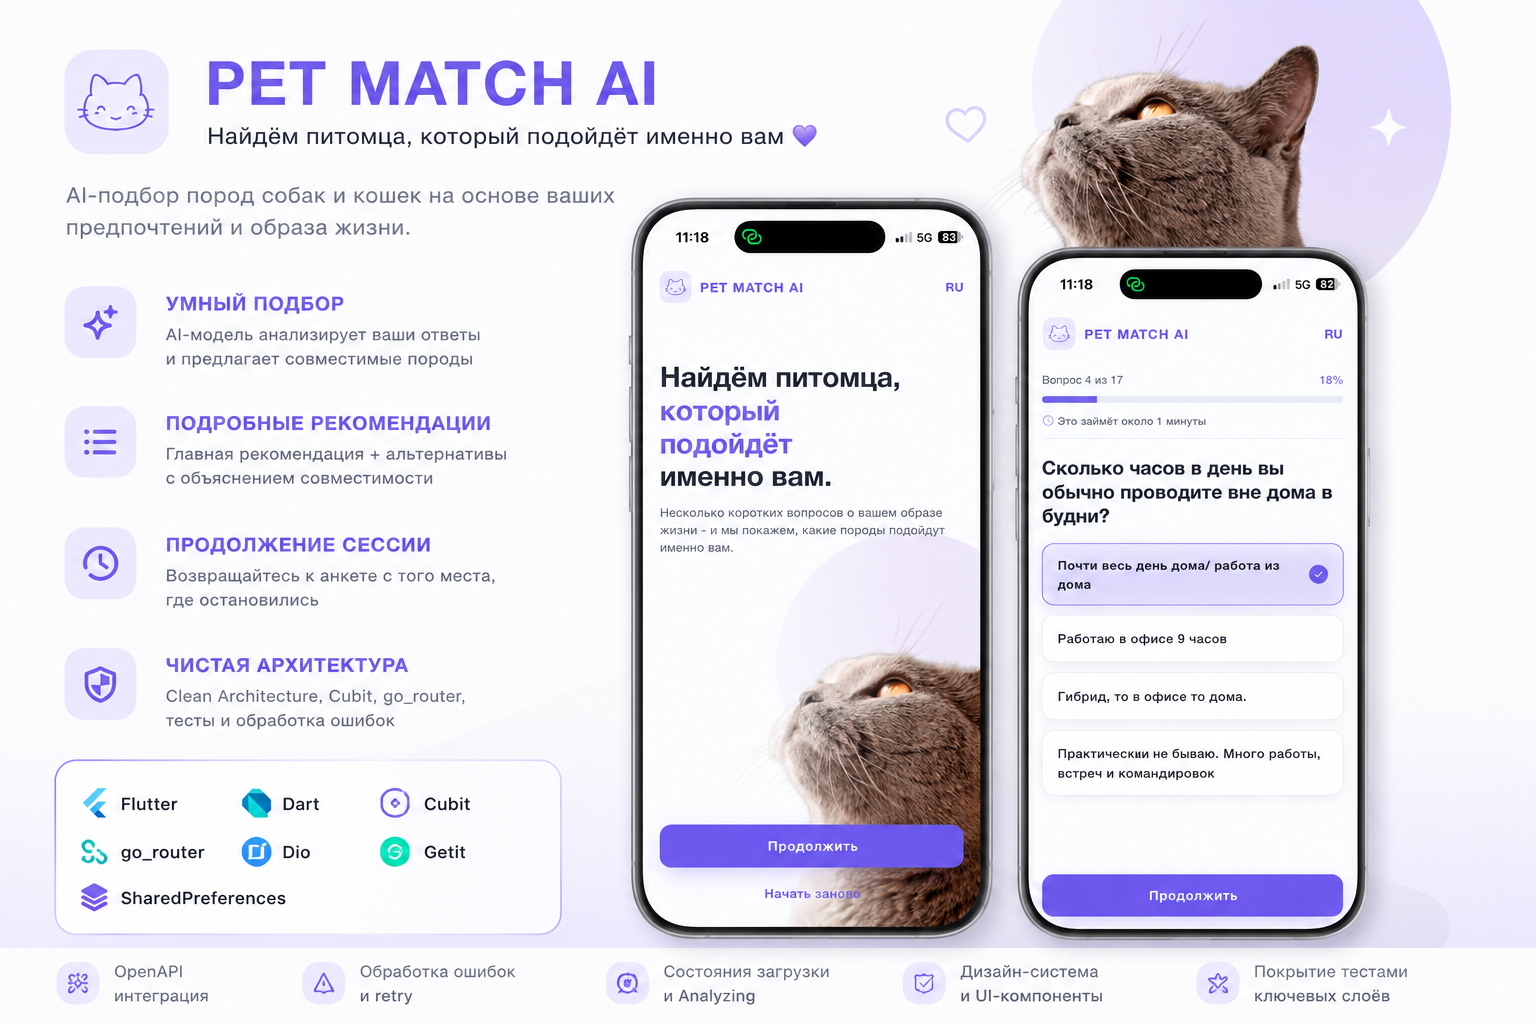
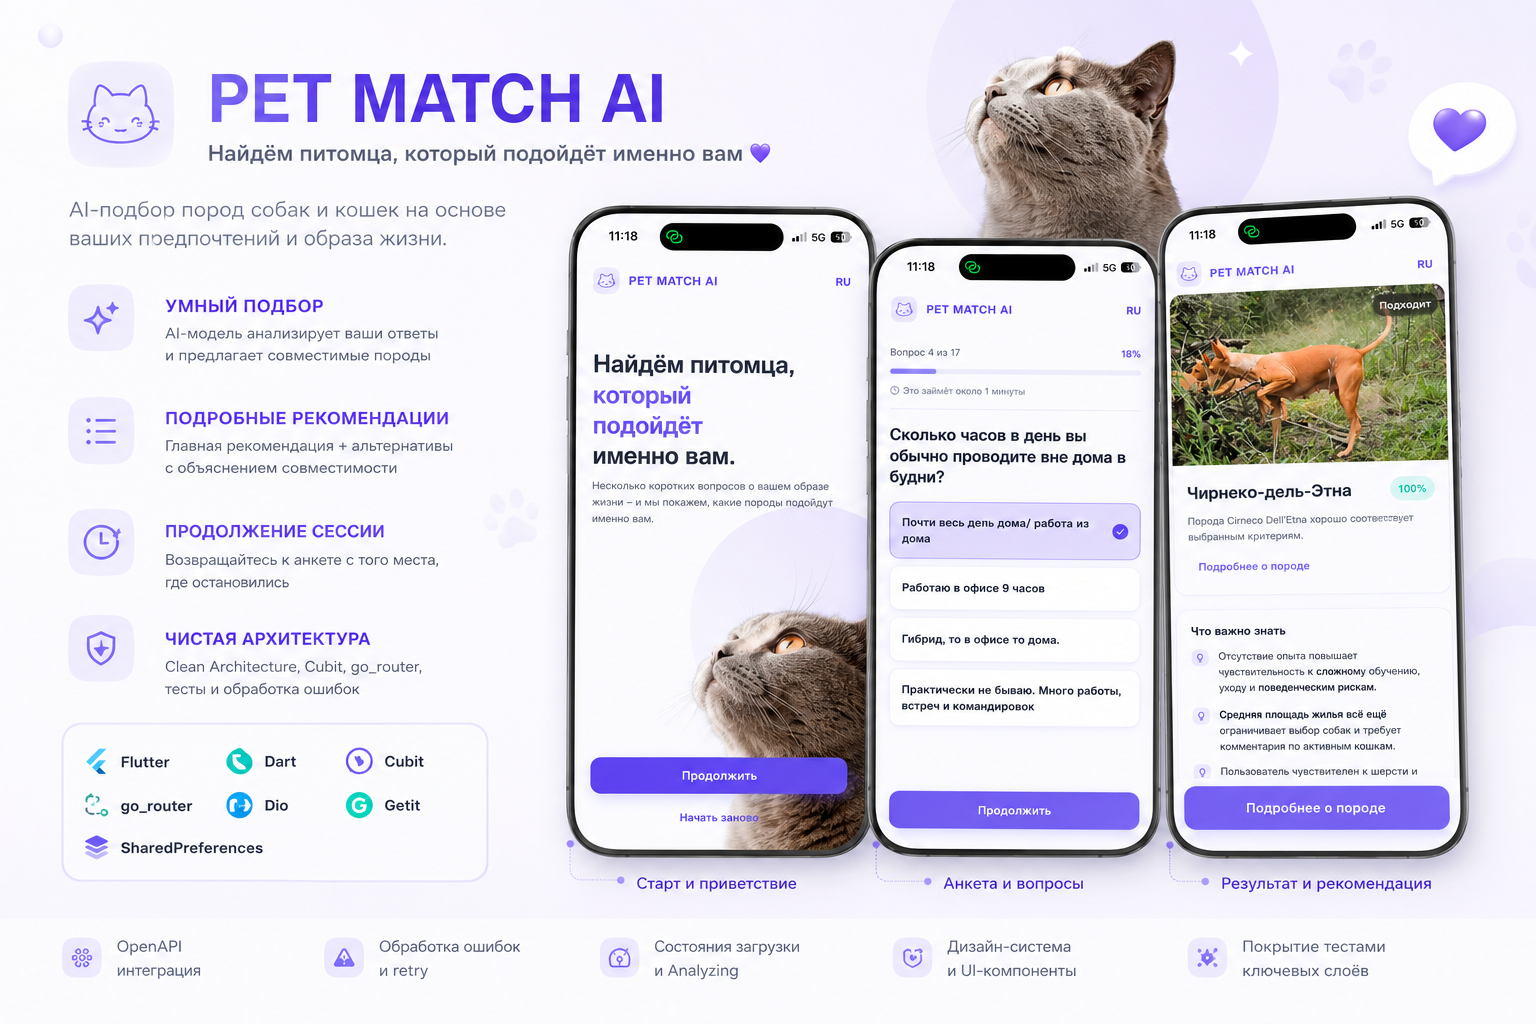
docs: trim build-time flags table and refresh hero screenshot
* Keep only USE_MOCK and API_BASE_URL in the README table — these are
  the two flags relevant to the default dev/demo workflow.
  PET_MATCH_EXTERNAL_ID and MOCK_FAIL_RATE are still supported in code
  but considered internal/debug knobs, not worth documenting upfront.
* Replace hero screenshot with the updated three-mockup composition.

diff --git a/README.md b/README.md
@@ -37,8 +37,6 @@ flutter build apk --release
 |---|---|---|
 | `USE_MOCK` | `false` | `false` - реальный dev API, `true` - данные из `assets/mock/` |
 | `API_BASE_URL` | `https://app-api.dev.pet-match.app/api/v1` | Базовый URL API |
-| `PET_MATCH_EXTERNAL_ID` | пусто | Фиксированный `uid` для проверки resume-flow через dev API |
-| `MOCK_FAIL_RATE` | `0` | Вероятность сетевой ошибки в mock-режиме |
 
 ## Архитектура
 
